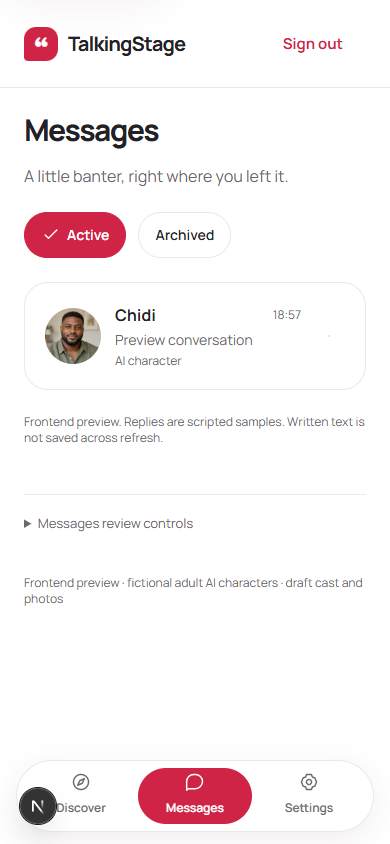
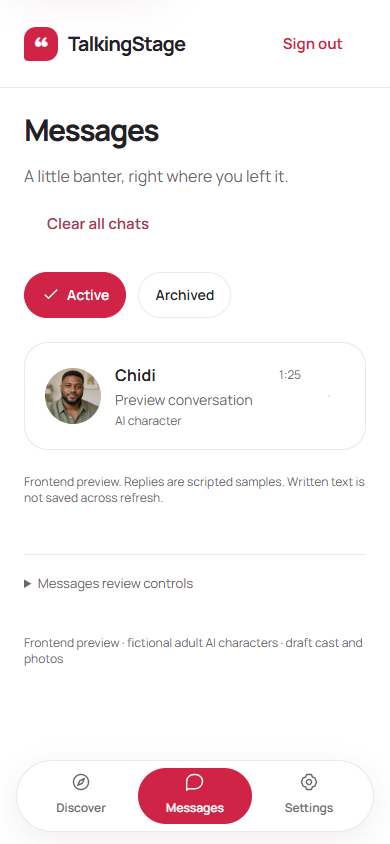
feat: Implement chat recovery mechanisms with loading states and error handling, including explicit reload options

diff --git a/components/chat-loading.tsx b/components/chat-loading.tsx
@@ -1,5 +1,25 @@
+'use client';
+import { useEffect, useRef, useState } from 'react';
+import Link from 'next/link';
 import { Skeleton } from './ui/primitives';
 
 export function ChatLoading() {
-  return <div className="chat-shell chat-loading" aria-busy="true"><header className="chat-shell__header" aria-hidden="true"><Skeleton width={44} height={44} /><div className="stack"><Skeleton width={160} height={18} /><Skeleton width={100} height={12} /></div></header><main id="main-content" className="chat-shell__messages"><span className="sr-only" role="status">Loading conversation</span><div className="chat-thread chat-log" aria-hidden="true"><div className="message-turn"><Skeleton width={220} height={76} /></div><div className="message-turn message-turn--user"><Skeleton width={170} height={56} /></div></div></main><footer className="chat-shell__composer" aria-hidden="true"><div className="chat-composer"><Skeleton height={64} /></div></footer></div>;
+  const [slow, setSlow] = useState(false);
+  const loading = useRef<HTMLDivElement>(null);
+  useEffect(() => {
+    const timer = setTimeout(() => setSlow(true), 15000);
+    if (loading.current) loading.current.dataset.recoveryReady = 'true';
+    return () => clearTimeout(timer);
+  }, []);
+  if (slow) return <ConversationLoadRecovery />;
+  return <div ref={loading} className="chat-shell chat-loading" aria-busy="true"><header className="chat-shell__header" aria-hidden="true"><Skeleton width={44} height={44} /><div className="stack"><Skeleton width={160} height={18} /><Skeleton width={100} height={12} /></div></header><main id="main-content" className="chat-shell__messages"><span className="sr-only" role="status">Loading conversation</span><div className="chat-thread chat-log" aria-hidden="true"><div className="message-turn"><Skeleton width={220} height={76} /></div><div className="message-turn message-turn--user"><Skeleton width={170} height={56} /></div></div></main><footer className="chat-shell__composer"><div className="chat-composer" aria-hidden="true"><Skeleton height={64} /></div><nav className="row" aria-label="Conversation loading options"><a className="button button--quiet" href="">Reload conversation</a><Link className="button button--quiet" href="/messages">Back to messages</Link></nav></footer></div>;
+}
+
+export function ConversationLoadRecovery({ failed = false }: { failed?: boolean }) {
+  return <main id="main-content" className="container space-page stack chat-load-recovery">
+    <p className="caption muted">TalkingStage</p>
+    <h1 className="display page-title">{failed ? 'This conversation could not load.' : 'This is taking longer than expected.'}</h1>
+    <p role="status">Reload the conversation to reconnect. Check your last message before sending it again.</p>
+    <div className="row"><button type="button" className="button button--primary" onClick={() => window.location.reload()}>Reload conversation</button><Link className="button button--secondary" href="/messages">Back to messages</Link></div>
+  </main>;
 }

diff --git a/tests/chat-loading.spec.ts b/tests/chat-loading.spec.ts
@@ -1,0 +1,47 @@
+import {test,expect} from '@playwright/test';
+
+test('a stalled conversation exposes recovery without reloading or sending automatically',async({page})=>{
+ await page.clock.install();
+ let posts=0,navigations=0;
+ page.on('request',request=>{if(request.method()==='POST')posts++;if(request.isNavigationRequest())navigations++;});
+ await page.goto('/dev/chat-delivery?scenario=loading');
+ await expect(page.getByRole('status')).toHaveText('Loading conversation');
+ await expect(page.locator('[data-recovery-ready="true"]')).toBeVisible();
+ await page.clock.fastForward(16000);
+ await expect(page.getByRole('heading',{name:'This is taking longer than expected.'})).toBeVisible();
+ await expect(page.getByRole('button',{name:'Reload conversation'})).toBeVisible();
+ expect(posts).toBe(0);expect(navigations).toBe(1);
+ for(const width of [320,390,900]){
+  await page.setViewportSize({width,height:650});
+  expect(await page.evaluate(()=>document.documentElement.scrollWidth<=innerWidth)).toBe(true);
+ }
+ await page.getByRole('button',{name:'Reload conversation'}).click();
+ await expect(page.getByRole('status')).toHaveText('Loading conversation');
+ expect(posts).toBe(0);expect(navigations).toBe(2);
+});
+
+test('conversation render recovery offers explicit reload and return navigation',async({page})=>{
+ await page.goto('/dev/chat-delivery?scenario=render-error');
+ await expect(page.getByRole('heading',{name:'This conversation could not load.'})).toBeVisible();
+ await expect(page.getByRole('button',{name:'Reload conversation'})).toBeVisible();
+ await expect(page.getByRole('link',{name:'Back to messages'})).toHaveAttribute('href','/messages');
+ await expect(page.locator('[aria-busy="true"]')).toHaveCount(0);
+});
+
+test('native recovery works before hydration on an unfinished server stream',async({browser})=>{
+ const context=await browser.newContext({javaScriptEnabled:false});
+ try{
+  const page=await context.newPage();
+  let posts=0;
+  page.on('request',request=>{if(request.method()==='POST')posts++;});
+  await page.goto('http://localhost:3103/dev/chat-delivery?scenario=server-stall',{waitUntil:'commit'});
+  await expect(page.getByRole('status')).toHaveText('Loading conversation');
+  await expect(page.getByRole('link',{name:'Reload conversation'})).toHaveAttribute('href','');
+  await expect(page.getByRole('link',{name:'Back to messages'})).toBeVisible();
+  await Promise.all([
+   page.waitForURL('**/messages',{waitUntil:'commit'}),
+   page.getByRole('link',{name:'Back to messages'}).click({noWaitAfter:true}),
+  ]);
+  expect(posts).toBe(0);
+ }finally{await context.close();}
+});

diff --git a/app/dev/chat-delivery/preview.tsx b/app/dev/chat-delivery/preview.tsx
@@ -5,6 +5,7 @@ import {ConnectedChatDelivery,ConnectedMessageDelivery,ChatOutbox,LiveMessageCom
 import {ChatShell} from '@/components/chat-shell';
 import {ReplyRetry} from '@/components/connected-conversation-forms';
 import {ConversationSync} from '@/components/conversation-sync';
+import {ChatLoading,ConversationLoadRecovery} from '@/components/chat-loading';
 const id='00000000-0000-4000-8000-000000000001';
 export default function DeliveryPreview({scenario,snapshot=false}:{scenario?:string;snapshot?:boolean}){
  const seeded=['unstarted','generating','failed','attempted'].includes(scenario??'');
@@ -12,6 +13,8 @@ export default function DeliveryPreview({scenario,snapshot=false}:{scenario?:str
  const [saved,setSaved]=useState<{id:string;clientId:string;text:string}[]>(()=>seeded?[{id:seededId,clientId:seededId,text:'Previously saved message.'}]:[]);const fail=useRef(false);const attempts=useRef(new Map<string,string>());
  const statuses=seeded?[{messageId:seededId,state:scenario==='generating'?'generating':scenario==='failed'?'failed':'blocked_provider',attempts:scenario==='unstarted'?0:1}]:[];
  const failStop=useRef(false);
+ if(scenario==='loading')return <ChatLoading/>;
+ if(scenario==='render-error')return <ConversationLoadRecovery failed/>;
  return <div className="chat-workspace connected-chat"><button style={{position:'fixed',right:8,top:8,zIndex:30,fontSize:10}} onClick={()=>{fail.current=true;}}>Fail next save</button><ConnectedChatDelivery id={id} generation={1} replies={scenario!=='disabled'} savedIds={saved.map(m=>m.id)} savedClientIds={saved.map(m=>m.clientId)} statuses={statuses} action={async form=>{
   if(form.get('operation')==='skip'){
    if(failStop.current){failStop.current=false;throw new Error('Synthetic interrupted cancellation');}

diff --git a/components/protected-area.tsx b/components/protected-area.tsx
@@ -32,7 +32,7 @@ async function ConnectedArea({ area, children, standalone = false }: { area: str
   return <AppShell items={[{ label: "Discover", icon: "discover", href: "/discover", active: area === "Discover" }, { label: "Messages", icon: "message", href: "/messages", active: area === "Messages" }, { label: "Settings", icon: "settings", href: "/settings", active: area === "Settings" }]} actions={<form action={signOutAccount}><button className="button button--quiet">Sign out</button></form>}><h1 className="display page-title">{area === "Discover" ? `Welcome, ${account.profile.display_name}.` : area}</h1>{<Notice title={area === "Discover" ? "Characters are being prepared" : "This space isn’t available yet"}><Link href="/settings/preferences">Update your preferences</Link> while we prepare this space.</Notice>}</AppShell>;
 }
 export function ProtectedArea({ children, area, standalone = false }: { children: ReactNode; area: string; standalone?: boolean }) {
-  if (!usesSupabase()) return <>{children}</>;
+  if (!usesSupabase()) return area === 'Messages' && standalone ? <Suspense fallback={<ChatLoading />}>{children}</Suspense> : <>{children}</>;
   // Unfinished feature adapters stay in the explicit development preview.
   return <Suspense fallback={area === 'Messages' ? <ChatLoading /> : <main id="main-content" className="container shell__main"><span className="sr-only" role="status">Checking your account</span><div className="stack" aria-hidden="true"><Skeleton width="60%" height={32} /><Skeleton height={260} /></div></main>}><ConnectedArea area={area} standalone={standalone}>{children}</ConnectedArea></Suspense>;
 }

diff --git a/app/messages/[conversationId]/page.tsx b/app/messages/[conversationId]/page.tsx
@@ -1,10 +1,10 @@
 import { ProtectedArea } from '@/components/protected-area';
 export const instant = false;
 export const maxDuration = 60;
-import { Suspense } from 'react';
 import { Chat } from '@/components/chat';
 import {usesSupabase} from '@/lib/backend/config';
 import {ConnectedThread} from '@/components/connected-conversations';
-import { ChatLoading } from '@/components/chat-loading';
 async function Introduction({ params,searchParams }: { params: Promise<{ conversationId: string }>;searchParams:Promise<{before?:string}> }) { const { conversationId } = await params; return usesSupabase()?<ConnectedThread id={conversationId} before={(await searchParams).before}/>:<Chat id={conversationId} />; }
-export default function Page({ params,searchParams }: { params: Promise<{ conversationId: string }>;searchParams:Promise<{before?:string}> }) { return <ProtectedArea area="Messages" standalone><Suspense fallback={<ChatLoading />}><Introduction params={params} searchParams={searchParams}/></Suspense></ProtectedArea>; }
+// One boundary owns account verification and the conversation render. Nested
+// copies of the same fallback made interrupted streams difficult to recover.
+export default function Page({ params,searchParams }: { params: Promise<{ conversationId: string }>;searchParams:Promise<{before?:string}> }) { return <ProtectedArea area="Messages" standalone><Introduction params={params} searchParams={searchParams}/></ProtectedArea>; }

diff --git a/app/dev/chat-delivery/page.tsx b/app/dev/chat-delivery/page.tsx
@@ -2,12 +2,18 @@ import {notFound} from 'next/navigation';
 import {cookies} from 'next/headers';
 import DeliveryPreview from '@talkingstage/chat-delivery-preview';
 import {Suspense} from 'react';
+import {ChatLoading} from '@/components/chat-loading';
 export default function Page(props:{searchParams:Promise<{scenario?:string}>}){
  if(process.env.NODE_ENV!=='development'||process.env.TALKINGSTAGE_PREVIEW_TEST!=='1')notFound();
- return <Suspense fallback={<p role="status">Opening chat preview…</p>}><Preview {...props}/></Suspense>;
+ return <Suspense fallback={<ChatLoading/>}><Preview {...props}/></Suspense>;
 }
 async function Preview({searchParams}:{searchParams:Promise<{scenario?:string}>}){
  const {scenario}=await searchParams;
+ if(scenario==='server-stall')return <StalledRender/>;
  const snapshot=(await cookies()).get('chat-sync-test-snapshot')?.value==='1';
  return <DeliveryPreview scenario={scenario} snapshot={snapshot}/>;
+}
+async function StalledRender(){
+ await new Promise<void>(()=>{});
+ return null;
 }

diff --git a/app/conversation-polish.css b/app/conversation-polish.css
@@ -89,6 +89,7 @@
 .chat-stop-reply { align-self: flex-start; min-height: 44px; font-size: 11px; padding: 8px 4px; color: #80646f; }
 .message-reply-actions .button { min-height: 44px; font-size: 12px; }
 .message-reply-actions > p:first-child { margin: 12px 0 0; }
+.chat-load-recovery { max-width: 560px; padding-top: clamp(48px, 12vh, 112px); }
 .typing-bubble { display: flex; align-items: center; gap: 5px; width: 65px; height: 40px; padding-inline: 17px; background: #fff; border: 1px solid #eee3e7; border-radius: 18px 18px 18px 5px; }
 .typing-bubble > span { width: 6px; height: 6px; flex: none; border-radius: 50%; background: #b56e80; animation: typing-dot 1200ms ease-in-out infinite; }
 .typing-bubble > span:nth-child(2) { animation-delay: 150ms; }

diff --git a/app/messages/[conversationId]/error.tsx b/app/messages/[conversationId]/error.tsx
@@ -1,0 +1,8 @@
+'use client';
+import { ConversationLoadRecovery } from '@/components/chat-loading';
+
+export default function ConversationError() {
+  // Reload fetches a fresh document even after an interrupted development stream.
+  // Never automatically replay a message or regenerate a reply on recovery.
+  return <ConversationLoadRecovery failed />;
+}

diff --git a/docs/reviews/chat-render-recovery.md b/docs/reviews/chat-render-recovery.md
@@ -1,0 +1,13 @@
+# Interrupted chat rendering
+
+20 October 2026. The supplied screenshot shows React reporting an unfinished server Suspense boundary while the chat remains on its loading skeleton. The local development log contains repeated recoverable boundary errors without a corresponding underlying server exception. A fresh signed-in navigation to the exact screenshot conversation completed with HTTP 200, a visible composer and no captured browser errors. The original abort was not reproduced on that fresh navigation; development-update interruption is a possibility, not an established root cause.
+
+The conversation route now has one loading boundary around account verification and thread rendering, with the equivalent boundary preserved in mock preview mode. A chat-specific error boundary offers a full-document reload and return to Messages. Recovery does not resend messages, retry model calls or initialize payments.
+
+The loading fallback includes native Reload conversation and Back to messages links in its initial server HTML. This is necessary because a Suspense fallback may remain unhydrated while its server stream is unfinished; a JavaScript timer alone cannot guarantee recovery in that case. Once hydrated, the loading view switches after 15 seconds to a readable recovery screen. It never refreshes automatically or loops. Existing Manrope, white/blush surfaces, red actions, 44px controls and responsive widths remain.
+
+Read-only browser checks covered the landing page, Discover, Messages, a saved conversation, Settings, the owned payment form, payment history and repeated conversation loads, with no captured browser errors on successful navigations. One additional check timed out waiting for the Messages list; the exact conversation was subsequently checked directly. No new user message, AI generation or payment submission was made during the audit.
+
+Regression coverage includes loading timeout and explicit reload, responsive recovery, render-failure UI, native escape navigation with JavaScript disabled against a deliberately unfinished server stream, normal chat journeys and delivery behavior. The server-stall fixture is confined to the existing development-only preview route. The full 25-suite offline core run, full lint and TypeScript passed before the final recovery refinements; final targeted checks and production compilation are recorded after completion.
+
+Final verification: 12 delivery checks, six normal chat journeys and all three recovery cases passed across the initial and focused corrected runs. The unfinished-stream test initially exposed a preview-only outer placeholder instead of the real chat fallback; the fixture now uses the same outer fallback as the conversation route, and its JavaScript-disabled native navigation check passed. The isolated production build compiled, typechecked and generated all 55 static-page entries successfully. Final scoped lint passed. No active development server was stopped or restarted, and no existing conversation was replayed.

diff --git a/docs/design-system.md b/docs/design-system.md
@@ -1,5 +1,7 @@
 # TalkingStage design system
 
+Interrupted chat recovery · 20 October: initial conversation skeletons include native reload/return links, usable before hydration. Hydrated loading switches after 15 seconds to a bounded, responsive recovery view; conversation render failures share it. One loading boundary owns the standalone chat. Recovery is explicit and does not replay messages. See [review](./reviews/chat-render-recovery.md).
+
 Reply status refinement · 20 October: a saved message keeps one tick while its reply is queued, with “Preparing a reply…” in the thread. A confirmed generating job gets double ticks and the typing bubble together. Seen receipts persist after interruption. Failed replies keep recovery beside the message with an explanation; the generic floating failure toast is removed. Existing Manrope, white/blush bubbles, red actions and reduced-motion support remain.
 
 Payment character labels · 20 October: payment headings, review and receipt display “[character] TalkingStage” for every character. “Received by” continues to show the registered merchant supplied by the payment integration.
